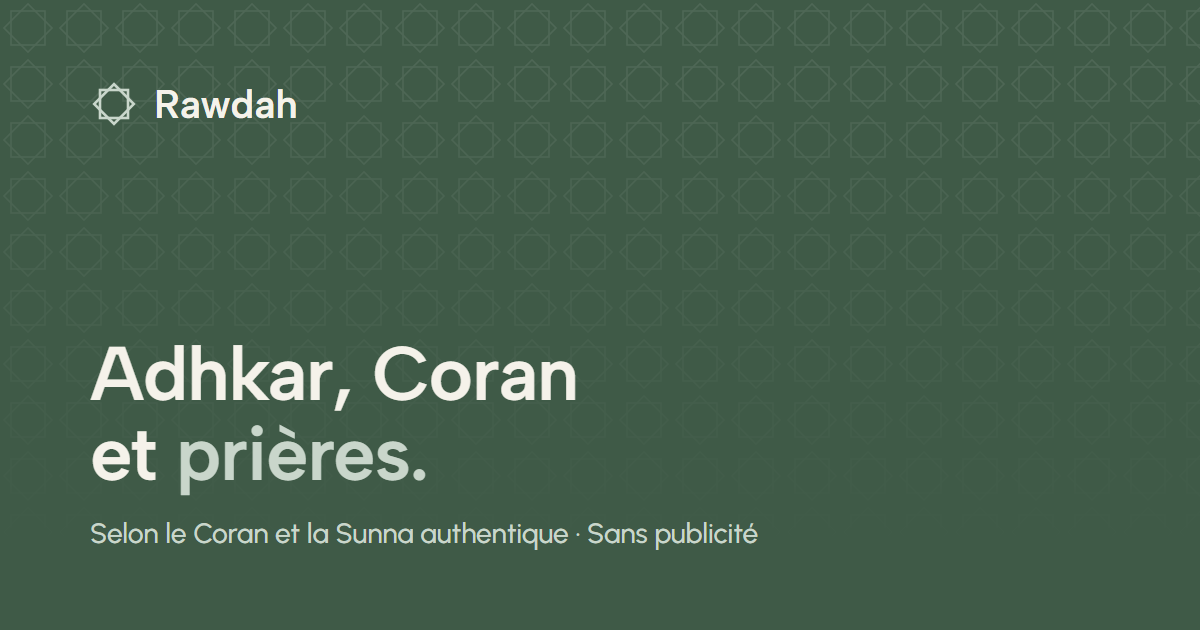
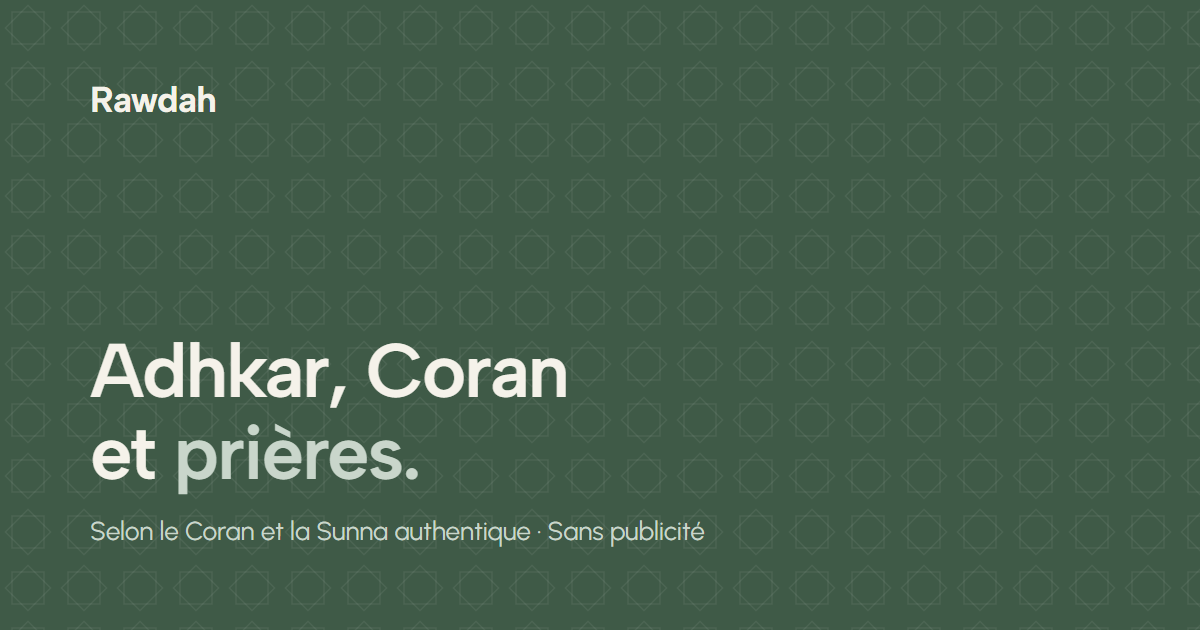
feat: icône étoilée retirée partout, menu mobile en haut, apparitions au défilement
- page publique : du Fajr au Icha, phrase de fin sur une ligne, Rawdah jamais coupé,
  tablette dans le cadre, pied de page aéré, sections et cartes qui apparaissent au défilement
- app mobile : menu sous son bouton, fenêtre des nouveautés qui tient dans l'écran
- icône d'onglet provisoire « R » et image de partage sans icône

diff --git a/src/styles/landing.css b/src/styles/landing.css
@@ -1,5 +1,5 @@
 /*
- * Page publique Rawdah : « la journée, de Fajr à Isha » (2026-10-27).
+ * Page publique Rawdah : « la journée, du Fajr au Icha » (2026-10-27).
  * Ciel qui change au fil de la page : aube crème, journée vert pastel, soir mauve,
  * nuit vert profond (couleurs les plus choisies au questionnaire).
  * Typo : Albert Sans pour les titres, Urbanist pour le texte ; Amiri uniquement pour l'arabe.
@@ -955,10 +955,15 @@
   text-align: center;
 }
 
+/* Phrase de fin sur une seule ligne dès la tablette : la taille suit la largeur du contenu. */
+.rw-final .rw-wrap {
+  container-type: inline-size;
+}
+
 .rw-final h2 {
   margin: 0 auto;
   max-width: 720px;
-  font-size: clamp(32px, 5vw, 56px);
+  font-size: clamp(28px, 7vw, 40px);
   font-weight: 700;
   line-height: 1.08;
 }
@@ -966,13 +971,15 @@
 /* Grand « Rawdah » en couleur unie, avec deux étiquettes posées dessus (inspiration Calyra, sans dégradé). */
 .rw-wordmark-stage {
   position: relative;
-  margin-top: 72px;
+  margin-top: 112px;
+  container-type: inline-size; /* le mot se règle sur la largeur du contenu : jamais coupé */
 }
 
 .rw-wordmark {
   display: block;
   font-family: "Albert Sans", ui-sans-serif, system-ui, sans-serif;
-  font-size: clamp(88px, 23vw, 342px);
+  font-size: 30cqw;
+  text-align: center;
   font-weight: 700;
   line-height: 0.9;
   letter-spacing: -0.06em;
@@ -1015,7 +1022,7 @@
   flex-wrap: wrap;
   justify-content: space-between;
   gap: 12px;
-  padding-top: 48px;
+  padding-top: 88px;
   padding-bottom: 28px;
   color: var(--rw-muted);
   font-size: 13px;
@@ -1159,16 +1166,47 @@
   .rw-hero-callig {
     animation: rw-fade 1.6s 0.4s both;
   }
+}
 
-  /* Sections suivantes : apparition légère quand elles entrent à l'écran. */
-  @supports (animation-timeline: view()) {
-    .rw-moment:not(.rw-hero) .rw-moment-grid > *,
-    .rw-principles > *,
-    .rw-faq,
-    .rw-wordmark-stage {
-      animation: rw-rise linear both;
-      animation-timeline: view();
-      animation-range: entry 0% entry 70%;
-    }
+/* Tablette et petits ordinateurs : le contenu et la barre de navigation restent à l’intérieur du cadre.
+   Au-delà de 1240 px, le cadre est déjà loin du contenu. */
+@media (min-width: 761px) and (max-width: 1240px) {
+  .rw-wrap {
+    padding-left: max(20px, calc(var(--rw-frame) + 24px));
+    padding-right: max(20px, calc(var(--rw-frame) + 24px));
+  }
+
+  .rw-wrap.rw-header {
+    width: min(1080px, calc(100% - 2 * var(--rw-frame) - 32px));
+    padding: 8px 8px 8px 20px;
+  }
+}
+
+/* Apparition au défilement (tous navigateurs) : un petit script dans index.html ajoute « rw-io » sur <html>,
+   puis « is-in » sur chaque élément quand il arrive à l’écran. Sans script, tout reste affiché. */
+.rw-io .rw-reveal-item {
+  opacity: 0;
+  transform: translateY(24px);
+  transition:
+    opacity 0.7s ease,
+    transform 0.8s cubic-bezier(0.2, 0.7, 0.2, 1);
+}
+
+/* Les cartes montent un peu plus et arrivent juste après le texte. */
+.rw-io .rw-moment-visual.rw-reveal-item {
+  transform: translateY(48px) scale(0.97);
+  transition-delay: 0.12s;
+}
+
+.rw-io .rw-reveal-item.is-in {
+  opacity: 1;
+  transform: none;
+}
+
+@media (min-width: 761px) {
+  .rw-final h2 {
+    max-width: none;
+    white-space: nowrap;
+    font-size: min(52px, 3.9cqw);
   }
 }

diff --git a/src/pages/Landing.tsx b/src/pages/Landing.tsx
@@ -1,4 +1,3 @@
-import { NourMark } from "@/components/NourMark";
 import { adhkarBySession } from "@/convex/adhkarData";
 import { rappels } from "@/data/rappels";
 import { prayerCalculation } from "@/hooks/use-prayer-times";
@@ -145,7 +144,6 @@ export default function Landing() {
             </nav>
           </details>
           <a href="/" className="rw-logo" aria-label="Rawdah, accueil">
-            <NourMark className="size-7 text-(--rw-sage)" />
             Rawdah
           </a>
           <nav className="rw-nav" aria-label="Navigation principale">
@@ -168,7 +166,7 @@ export default function Landing() {
             </h1>
             <p className="rw-text">
               Rawdah est une application musulmane pour les femmes : tes prières, tes adhkar, ton
-              Coran et ton cycle, de Fajr à Isha, dans un espace calme.
+              Coran et ton cycle, du Fajr au Icha, dans un espace calme.
             </p>
             <p className="rw-signature">Une routine douce, à ton rythme.</p>
             <div className="rw-cta">
@@ -192,10 +190,7 @@ export default function Landing() {
               </div>
               <div className="rw-phone-screen" aria-hidden="true">
                 <div className="rw-phone-top">
-                  <span className="flex items-center gap-1.5">
-                    <NourMark className="size-5 text-(--rw-sage)" />
-                    <b>Rawdah</b>
-                  </span>
+                  <b>Rawdah</b>
                   <span className="flex gap-1.5">
                     <i className="rw-phone-icon" />
                     <i className="rw-phone-icon rw-phone-avatar" />
@@ -283,7 +278,7 @@ export default function Landing() {
         <div className="rw-wrap">
           <p className="rw-intro-text">
             <span>
-              De Fajr à Isha, cinq prières rythment ta journée. Rawdah l’organise autour d’elles : tes
+              Du Fajr au Icha, cinq prières rythment ta journée. Rawdah l’organise autour d’elles : tes
               adhkar, ton Coran, tes cours et ton cycle trouvent leur place entre deux rendez-vous avec
               Allah, sans pression ni score.
             </span>
@@ -301,7 +296,7 @@ export default function Landing() {
             </span>
             <h2 className="rw-h2">Ta journée s’organise autour de la prière.</h2>
             <p className="rw-text">
-              Ta position ou ta ville suffit : les horaires de prière de Fajr à Isha s’affichent
+              Ta position ou ta ville suffit : les horaires de prière du Fajr au Icha s’affichent
               chaque matin. Tes cours de science, tes lectures et tes tâches viennent se placer
               entre deux prières. Les mosquées proches sont à portée, avec l’itinéraire.
             </p>
@@ -492,7 +487,7 @@ export default function Landing() {
 
         <footer className="rw-final rw-sep">
           <div className="rw-wrap">
-            <h2>Demain, à Fajr, ta journée t’attend.</h2>
+            <h2>Demain, au Fajr, une nouvelle journée commence.</h2>
             <a href={authHref} className="rw-btn rw-btn-dark mt-8">
               Créer mon espace
             </a>

diff --git a/src/components/dashboard/DashboardSidebar.tsx b/src/components/dashboard/DashboardSidebar.tsx
@@ -7,7 +7,6 @@ import {
   X,
 } from "lucide-react";
 import { useState } from "react";
-import { NourMark } from "@/components/NourMark";
 import { Switch } from "@/components/ui/switch";
 import {
   dashboardNavigation,
@@ -90,8 +89,7 @@ export function DashboardSidebar({
           aria-label="Rawdah, aujourd’hui"
           data-tip={isCollapsed ? "Rawdah" : undefined}
         >
-          <NourMark className="size-7 shrink-0 text-(--n-sage)" />
-          {!isCollapsed && <span className="n-display text-[20px]">Rawdah</span>}
+          <span className="n-display text-[20px]">{isCollapsed ? "R" : "Rawdah"}</span>
         </button>
 
         <button
@@ -203,11 +201,11 @@ export function DashboardSidebar({
         <div className="lg:hidden">
           <button
             type="button"
-            className="n-sheet-backdrop"
+            className={`n-sheet-backdrop ${isMenuOpen ? "n-sheet-backdrop-clear" : ""}`}
             aria-label="Fermer le menu"
             onClick={() => closeSheet()}
           />
-          <div className="n-sheet" role="dialog" aria-label={isMenuOpen ? "Menu" : "Plus"}>
+          <div className={`n-sheet ${isMenuOpen ? "n-sheet-top" : ""}`} role="dialog" aria-label={isMenuOpen ? "Menu" : "Plus"}>
             <div className="flex items-center justify-between px-1 pb-2">
               <span className="n-label">{isMenuOpen ? "Menu" : "Plus"}</span>
               <button

diff --git a/src/styles/nour-ui.css b/src/styles/nour-ui.css
@@ -488,6 +488,21 @@
   box-shadow: 0 10px 30px rgba(31, 42, 34, 0.2);
 }
 
+/* Menu du haut (mobile) : s’ouvre sous le bouton, en haut à gauche, comme sur la page d’accueil. */
+.n-sheet.n-sheet-top {
+  top: 64px;
+  right: auto;
+  bottom: auto;
+  left: 16px;
+  width: min(300px, calc(100vw - 32px));
+  max-height: calc(100dvh - 80px);
+  overflow-y: auto;
+}
+
+.n-sheet-backdrop.n-sheet-backdrop-clear {
+  background: transparent;
+}
+
 /* ---------- Animation d'entrée ---------- */
 
 @media (prefers-reduced-motion: no-preference) {
@@ -829,17 +844,12 @@
   height: 34px;
   align-items: center;
   justify-content: center;
+  border-radius: 999px;
+  background: var(--n-sage-tint);
   color: var(--n-sage);
   font-size: 12px;
   font-weight: 700;
   font-variant-numeric: tabular-nums;
-}
-
-.n-surah-num svg {
-  position: absolute;
-  inset: 0;
-  width: 100%;
-  height: 100%;
 }
 
 .n-surah-name-ar {
@@ -2060,6 +2070,17 @@
   font-size: 14px;
   box-shadow: 0 18px 40px -12px rgba(31, 42, 34, 0.25);
   animation: n-rise 0.2s ease both;
+}
+
+/* Sur mobile, la cloche n’est pas au bord droit : la fenêtre se cale sur la largeur de l’écran pour ne pas être coupée. */
+@media (max-width: 1023px) {
+  .n-popover {
+    position: fixed;
+    top: 64px;
+    right: 16px;
+    left: 16px;
+    width: auto;
+  }
 }
 
 .n-popover-row {

diff --git a/index.html b/index.html
@@ -36,5 +36,26 @@
   <body>
     <div id="root"></div>
     <script type="module" src="/src/main.tsx"></script>
+    <script>
+      // Apparition au défilement de la page d’accueil (voir « rw-io » dans landing.css).
+      (function () {
+        if (matchMedia("(prefers-reduced-motion: reduce)").matches || !("IntersectionObserver" in window)) return;
+        var selector = ".rw-moment:not(.rw-hero) .rw-moment-grid > *, .rw-principles > *, .rw-faq > h2, .rw-faq > div, .rw-final h2, .rw-wordmark-stage";
+        function run() {
+          var items = document.querySelectorAll(selector);
+          if (!items.length) return;
+          document.documentElement.classList.add("rw-io");
+          var observer = new IntersectionObserver(function (entries) {
+            entries.forEach(function (entry) {
+              if (!entry.isIntersecting) return;
+              entry.target.classList.add("is-in");
+              observer.unobserve(entry.target);
+            });
+          }, { rootMargin: "0px 0px -8% 0px", threshold: 0.12 });
+          items.forEach(function (item) { item.classList.add("rw-reveal-item"); observer.observe(item); });
+        }
+        if (document.readyState === "loading") document.addEventListener("DOMContentLoaded", run); else run();
+      })();
+    </script>
   </body>
 </html>

diff --git a/src/components/dashboard/QuranAudioReader.tsx b/src/components/dashboard/QuranAudioReader.tsx
@@ -1,4 +1,3 @@
-import { NourMark } from "@/components/NourMark";
 import {
   saveQuranResumePosition,
   type QuranResumePosition,
@@ -539,8 +538,7 @@ export function QuranAudioReader({
               className="n-surah-item"
             >
               <span className="n-surah-num">
-                <NourMark />
-                <span className="relative">{surah.number}</span>
+                    <span className="relative">{surah.number}</span>
               </span>
               <span className="min-w-0">
                 <span className="block truncate font-semibold">{surah.englishName}</span>
@@ -758,7 +756,6 @@ export function QuranAudioReader({
         <div className="n-mini-row">
         <button type="button" className="n-mini-info" onClick={onOpen}>
           <span className="n-surah-num">
-            <NourMark />
             <span className="relative">{selectedSurah}</span>
           </span>
           <span className="min-w-0 text-left">

diff --git a/src/pages/Dashboard.tsx b/src/pages/Dashboard.tsx
@@ -2,7 +2,6 @@
 import { CycleCalendar } from "@/components/dashboard/CycleCalendar";
 import { DashboardSidebar } from "@/components/dashboard/DashboardSidebar";
 import { TopActions } from "@/components/dashboard/TopActions";
-import { NourMark } from "@/components/NourMark";
 import {
   dashboardNavigation,
   type DashboardView,
@@ -1023,7 +1022,6 @@ export default function Dashboard() {
                 className="flex items-center gap-2"
                 aria-label="Rawdah, aujourd’hui"
               >
-                <NourMark className="size-7 text-(--n-sage)" />
                 <span className="n-display text-[19px]">Rawdah</span>
               </button>
               <div className="justify-self-end">

diff --git a/src/data/annonces.ts b/src/data/annonces.ts
@@ -10,6 +10,12 @@ export type Annonce = {
 
 export const annonces: Annonce[] = [
   {
+    id: "2026-10-27-menu-haut-notifications",
+    date: "2026-10-27",
+    title: "Menu et nouveautés mieux placés",
+    text: "Sur téléphone, le menu s’ouvre en haut, sous son bouton, et la fenêtre des nouveautés tient dans l’écran.",
+  },
+  {
     id: "2026-10-27-logo-mobile",
     date: "2026-10-27",
     title: "Un menu en haut sur téléphone",

diff --git a/PROJET.md b/PROJET.md
@@ -127,6 +127,7 @@ Côté Convex (`npx convex env set`) :
 - 2026-10-27 : page publique : « Pensée pour les femmes musulmanes » déplacé sous le héros, les trois profils en badges arrondis (rayon 50 px) ; traits internes de la section principes retirés ; mention « données d’exemple » placée à la fin de la section Isha, avec de l’espace.
 - 2026-10-27 : page publique : bloc « Pensée pour les femmes musulmanes » retiré (par Sarah) ; barre de navigation en carte blanche arrondie sans ombre ; menu mobile en HTML seul (<details>) avec bouton à gauche, logo au centre et « Mon espace » à droite ; étiquette du téléphone « Horaires de prière selon ta ville » ; preuve de Maghrib en lignes (libellé à gauche, valeur à droite) pour qu’aucun nom ne soit coupé.
 - 2026-10-27 : page publique : fond blanc cassé #FFFEFA (choix de Sarah ; le double « # » qui cassait la couleur et faisait disparaître les ronds est corrigé), cartes et barre de navigation sur une teinte crème `--rw-card` pour rester visibles ; ronds des croisements de la couleur et de l’épaisseur des traits ; grand « Rawdah » qui s’efface vers le bas (masque) ; texte d’intro entre le héros et Dhuhr, révélé mot à mot au défilement (CSS `animation-timeline`, sans JavaScript) ; animations d’entrée légères (héros au chargement, sections à l’entrée à l’écran), coupées si « réduire les animations » est activé.
+- 2026-10-27 : icône étoilée (NourMark) retirée partout (page publique, app, lecteur du Coran ; composant supprimé) : « Rawdah » en texte seul, « R » dans la barre latérale repliée, numéros de sourate dans un rond teinté. Icône d’onglet lune + étoile remplacée par un « R » provisoire (`public/logo.svg`) en attendant le choix du logo ; image de partage `og.png` refaite sans icône. App mobile : le menu du haut s’ouvre sous le bouton (comme sur la page publique), la fenêtre des nouveautés se cale sur la largeur de l’écran. Page publique : « du Fajr au Icha », phrase de fin « Demain, au Fajr, une nouvelle journée commence. » (texte de Sarah) sur une seule ligne dès 761 px, grand « Rawdah » réglé sur la largeur du contenu (jamais coupé), contenu et barre de navigation à l’intérieur du cadre en tablette, apparition des sections et des cartes au défilement via un petit script dans `index.html` (IntersectionObserver, sans effet si « réduire les animations »). Pied de page plus aéré (112 px avant « Rawdah », 88 px avant la barre du bas).
 
 ## Problèmes connus
 - Référencement : le site reste sur le sous-domaine Vercel (`muslim-dhikr-companion-main.vercel.app`), décision de Sarah du 2026-10-22 de ne pas acheter de nom de domaine. L’adresse apparaît dans `index.html`, `public/robots.txt` et `public/sitemap.xml`.
